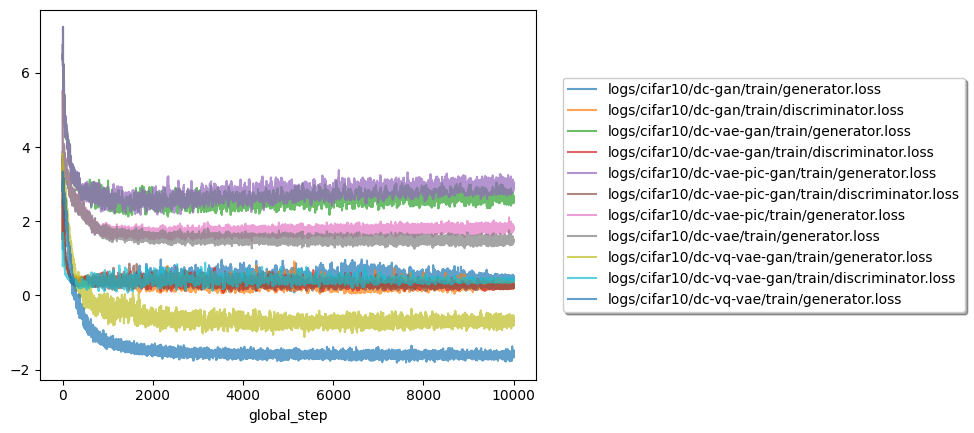
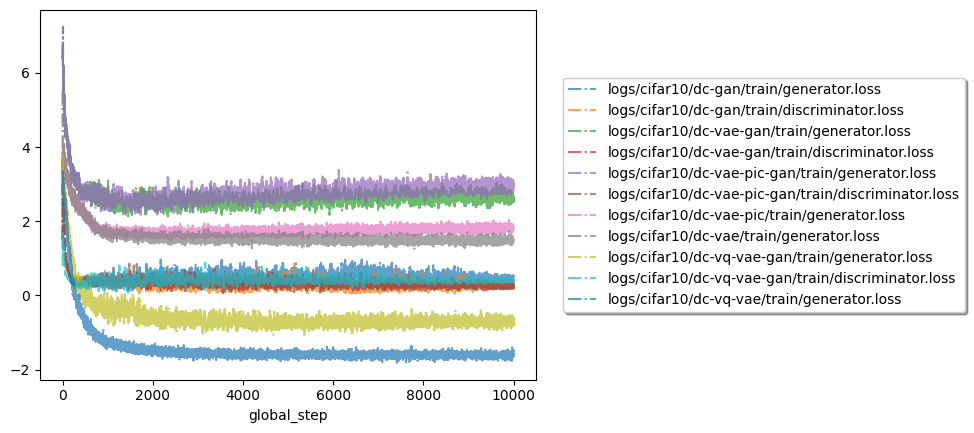
Update line style

diff --git a/src/plot.py b/src/plot.py
@@ -51,6 +51,10 @@ def plot(paths, args):
             if gdf[y].isna().all():
                 continue
 
+            names = gdf["name"].unique()
+            assert len(names) == 1, "One group should have at most 1 name."
+            linestyle = dict(train_200="--", test="-").get(names[0], "-.")
+
             gdf.plot(
                 x="global_step",
                 y=y,
@@ -58,6 +62,7 @@ def plot(paths, args):
                 ax=plt.gca(),
                 marker="x" if len(gdf) < 100 else None,
                 alpha=0.7,
+                linestyle=linestyle,
             )
 
     plt.gca().legend(
